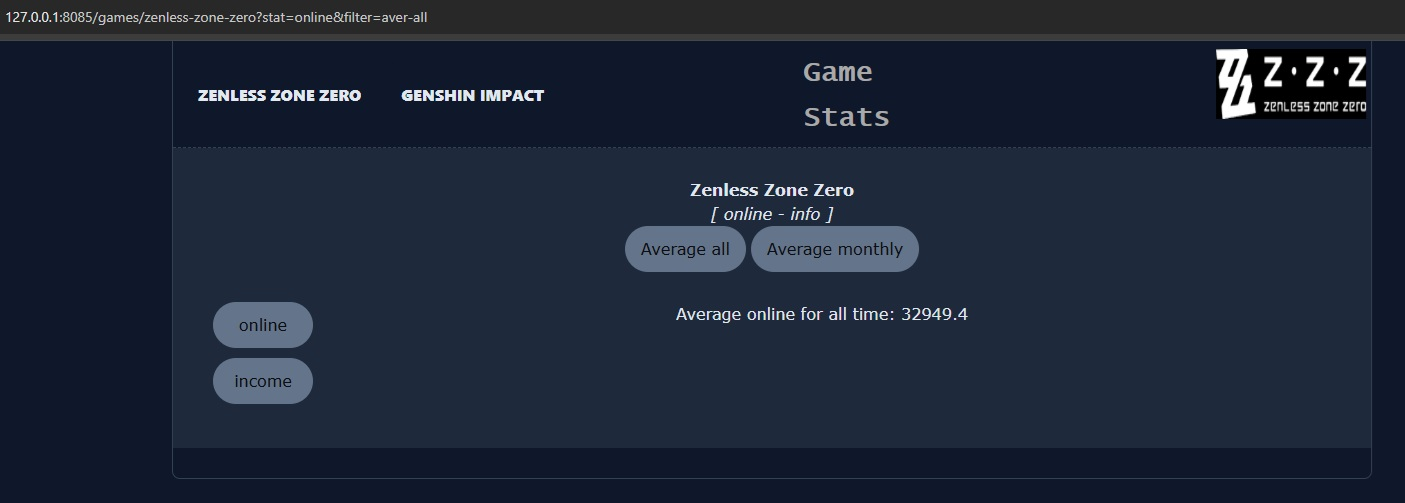
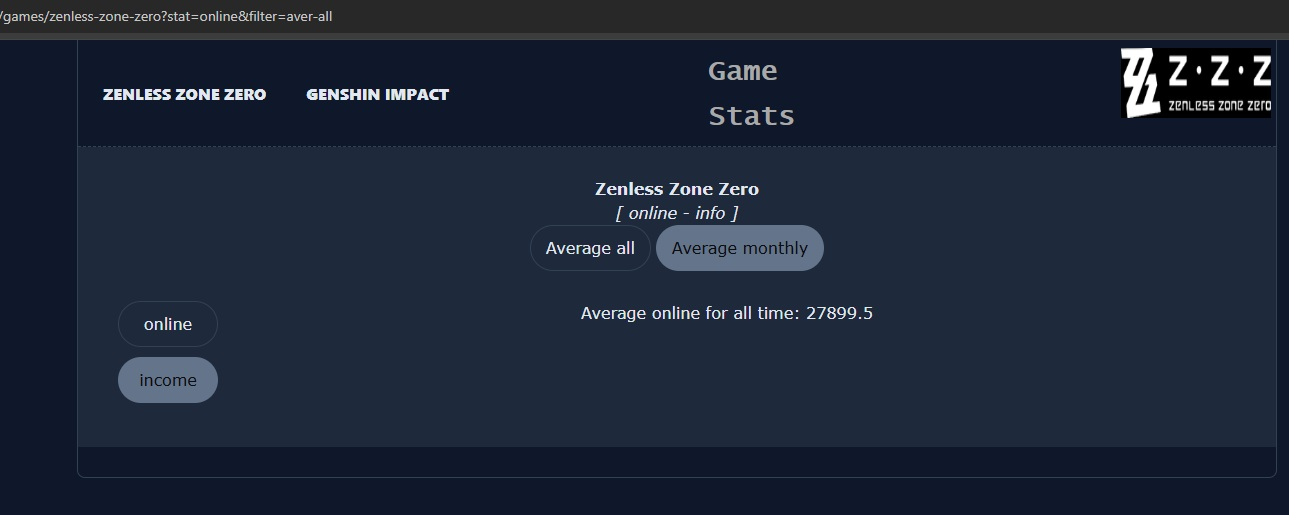
Header logic: js -> blader; Added 'route model binding' for game's url; View composer for layout is added with games list; Changed/Added screenshots; additional improvements for code and visual

diff --git a/resources/css/styles.css b/resources/css/styles.css
@@ -227,6 +227,16 @@ main a {
     border: 1px solid transparent;
 }
 
+main a.disabled {
+    pointer-events: none;
+    background-color: var(--main-block-btn-bg-hov);
+    color: var(--main-text);
+    border: 1px solid;
+    border-radius: 30px;
+    cursor: pointer;
+    border-color: var(--border-color);
+}
+
 main a:hover {
     background-color: var(--main-block-btn-bg-hov);
     color: var(--main-text);

diff --git a/resources/views/game_stats.blade.php b/resources/views/game_stats.blade.php
@@ -21,8 +21,8 @@
         </div>
         <div class='main__title-filters'>
             @if(isset($stat))
-                <a href="{{ request()->fullUrlWithQuery(['filter' => 'aver-all', 'date' => null]) }}" class="button">Average all</a>
-                <a href="{{ request()->fullUrlWithQuery(['filter' => 'aver-month']) }}"  class="button">Average monthly</a>
+                <a href="{{ request()->fullUrlWithQuery(['filter' => 'aver-all', 'date' => null]) }}" class="{{ $filter === 'aver-all' ? 'disabled' : '' }}">Average all</a>
+                <a href="{{ request()->fullUrlWithQuery(['filter' => 'aver-month']) }}"  class="{{ $filter === 'aver-month' ? 'disabled' : '' }}">Average monthly</a>
             @else
                 <span>Choose any stat to see filters</span>
             @endif
@@ -32,8 +32,8 @@
         <!--info for online, income, etc-->
         <div class='main__content-stats'>
             @if(isset($game))
-                <a href="?stat=online" class="button">online</a>
-                <a href='?stat=income' class="button">income</a>
+                <a href="?stat=online" class="{{ $stat === 'online' ? 'disabled' : '' }}">online</a>
+                <a href='?stat=income' class="{{ $stat === 'income' ? 'disabled' : '' }}">income</a>
             @endif
         </div>
         <div class='main__content-info'>

diff --git a/app/Http/Controllers/GameController.php b/app/Http/Controllers/GameController.php
@@ -16,17 +16,20 @@ use App\Http\Resources\GameResource;
 use App\Services\GameStatService;
 use App\Services\GameAdminService;
 
+//MODELS
+use App\Models\Game;
+
 class GameController extends Controller
 {
     //get game by url
-    public function getGameByUrl($url, Request $request, GameStatService $service) {
+    public function getGameByUrl(Game $game, Request $request, GameStatService $service) {
         //get query from url
         $stat = $request->stat;
         $filter = $request->filter;
         $date = $request->date;
 
         //get game and result if exist stat and filter
-        $serviceResult = $service->getStats($url, $stat, $filter, $date);
+        $serviceResult = $service->getStats($game, $stat, $filter, $date);
 
         //call blade page
         return view('game_stats', [
@@ -40,12 +43,12 @@ class GameController extends Controller
 
     //get games list (using for header)
     public function getGamesList(GameAdminService $service) {
-        $gamesList = $service->getGamesList();   
-
+        $gamesList = $service->getGamesList();  
+        
         //send back json
         return response()->json([
             'status' => 'ok',
-            'gamesList' => GameResource::collection($gamesList)
+            'gamesList' => GameResource::collection($gamesList),
         ], 200);
     }
 

diff --git a/resources/views/header.blade.php b/resources/views/header.blade.php
@@ -1,0 +1,30 @@
+@php
+    $logoHeight = 70;
+    $logoWidth = 150;
+@endphp
+<header class='header'>
+    <nav class='nav'>
+        @if(isset($gamesList) && $gamesList->isNotEmpty())
+            @foreach($gamesList as $game)
+                <button class="btn-56" onclick="location.href='/games/{{$game->url}}'">{{$game->title}}</button>
+            @endforeach
+        @else
+            <b>No games</b>
+        @endif
+    </nav>
+
+    <div class='header__title'>
+        <h1 class='header__title'><a href='/'>Game Stats</a></h1>
+    </div>
+
+    <div class="logo__pic">
+        @php
+            $currentGame = request()->route('game');
+        @endphp
+        @if($currentGame)
+            <img src="/storage/{{$currentGame->pic}}" height="{{$logoHeight}}" width="{{$logoWidth}}" alt="{{$currentGame->title}} logo" />
+        @else
+            <img src='/storage/logo/main-logo.png' height="{{$logoHeight}}" width="{{$logoWidth}}" alt="Site logo" />
+        @endif
+    </div>
+</header>

diff --git a/app/Http/Controllers/IncomeController.php b/app/Http/Controllers/IncomeController.php
@@ -24,12 +24,12 @@ class IncomeController extends Controller
         $games = $service->getGamesList();
         
         $view_array = [
-            'add-record-income' => 'admin.add_record_income',
-            'del-record-income' => 'admin.del_record_income',
+            'admin/add-record-income' => 'admin.add_record_income',
+            'admin/del-record-income' => 'admin.del_record_income',
         ];
 
         //take from url address for view
-        $url = substr($request->path(), 6);
+        $url = $request->path();
         return view($view_array[$url], ['games' => $games]);
     }
 

diff --git a/app/Http/Controllers/OnlineController.php b/app/Http/Controllers/OnlineController.php
@@ -24,12 +24,12 @@ class OnlineController extends Controller
         $games = $service->getGamesList();
         
         $view_array = [
-            'add-record-online' => 'admin.add_record_online',
-            'del-record-online' => 'admin.del_record_online',
+            'admin/add-record-online' => 'admin.add_record_online',
+            'admin/del-record-online' => 'admin.del_record_online',
         ];
 
         //take from url address for view
-        $url = substr($request->path(), 6);
+        $url = $request->path();
         return view($view_array[$url], ['games' => $games]);
     }
 

diff --git a/resources/views/layout.blade.php b/resources/views/layout.blade.php
@@ -9,17 +9,10 @@
 
         <!-- Styles / Scripts -->
         @vite('resources/css/styles.css')
-        @vite('resources/js/header.js')
     </head>
     <body>
         <div class="layout">
-            <header class='header'>
-                <nav class='nav'></nav>
-                <div class='header__title'>
-                    <h1 class='header__title'><a href='/'>Game Stats</a></h1>
-                </div>
-                <div class="logo__pic"></div>
-            </header>
+            @include('header')
             <main class="main">@yield('main')</main>
         </div>
     

diff --git a/app/Providers/AppServiceProvider.php b/app/Providers/AppServiceProvider.php
@@ -3,6 +3,8 @@
 namespace App\Providers;
 
 use Illuminate\Support\ServiceProvider;
+use Illuminate\Support\Facades\View;
+use App\Models\Game;
 
 class AppServiceProvider extends ServiceProvider
 {
@@ -19,6 +21,11 @@ class AppServiceProvider extends ServiceProvider
      */
     public function boot(): void
     {
-        //
+        //take games from DB for header list
+        View::composer('layout', function($navList) {
+            $gamesList = Game::select('title', 'url', 'pic')->get();
+
+            $navList->with('gamesList', $gamesList);
+        });
     }
 }

diff --git a/app/Services/GameStatService.php b/app/Services/GameStatService.php
@@ -9,10 +9,7 @@ use App\Models\Income;
 class GameStatService
 {
     //main class for controller
-    public function getStats(string $url, $stat, $filter, $date) {
-        //get game
-        $game = Game::where('url', $url)->firstOrFail();
-
+    public function getStats(Game $game, $stat, $filter, $date) {
         //call func depends on stat
         switch($filter) {
             case 'aver-all':

diff --git a/routes/web.php b/routes/web.php
@@ -11,7 +11,7 @@ use App\Http\Middleware\CheckAdmin;
 
 //GET ROUTS
 Route::get('/', fn() => view('index')); //main page
-Route::get('/games/{url}', [GameController::class, 'getGameByUrl']); //game page with stats 
+Route::get('/games/{game}', [GameController::class, 'getGameByUrl']); //game page with stats 
 
 //API BLOCK
 Route::prefix('api')->group(function() {

diff --git a/app/Models/Game.php b/app/Models/Game.php
@@ -19,6 +19,12 @@ class Game extends Model
         'url'
     ]; 
 
+    //for route route binding(url instead of id)
+    public function getRouteKeyName()
+    {
+        return 'url';
+    }
+
     public function online() {
         return $this->hasMany(Online::class);
     }
